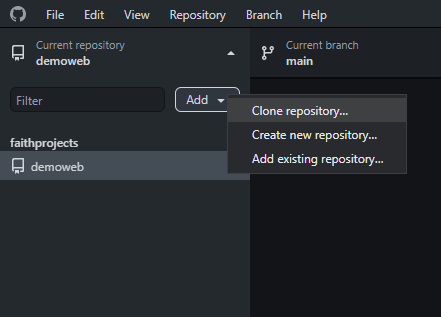
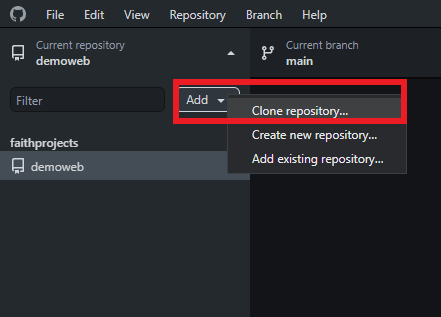
updating images with red pointers

Changed region(s): [[0.3832, 0.2271, 0.9433, 0.3975]]

diff --git a/howto_github.html b/howto_github.html
@@ -79,7 +79,7 @@
                 <div class="add-files">
                     <h2>Adding files into repository</h2>
                     <p>Now that you have created your repositiory, its time to add your files. Go to Add file and under add file, go to upload files.</p>
-                    <a href="profile_page.png"><img src="images/git_images/ep1000rep_page.png" height="400px" ></a>
+                    <a href="profile_page.png"><img src="images/git_images/repopage_add.png" height="400px" ></a>
                     <p>You can now drag the files or folders and make sure the images are in one folder separate from the html and css files like this:</p>
                     <a href="profile_page.png"><img src="images/git_images/addfiles.png" height="400px" ></a>
                     <a href="profile_page.png"><img src="images/git_images/files_layout.png" height="400px" ></a>
@@ -93,7 +93,7 @@
                 <div class="publish-website">
                     <h2>Publishing your website</h2>
                     <p>You are now ready to publish your website, Go to settings inside your repositiory</p>
-                    <a href="profile_page.png"><img src="images/git_images/repo_wfiles.png" height="400px" ></a>
+                    <a href="profile_page.png"><img src="images/git_images/repo_wfiles2.png" height="400px" ></a>
                     <p>Under settings, go to page. Then, Under Source select the branch and select the root or doc that it will retreive from to publish the website. Then click save</p>
                     <a href="profile_page.png"><img src="images/git_images/reposettings_page.png" height="400px" ></a>
                     <p>A URL will be created and if you wait for a few mins (can take slightly longer), you will be able to see your website through the URL created.</p>
